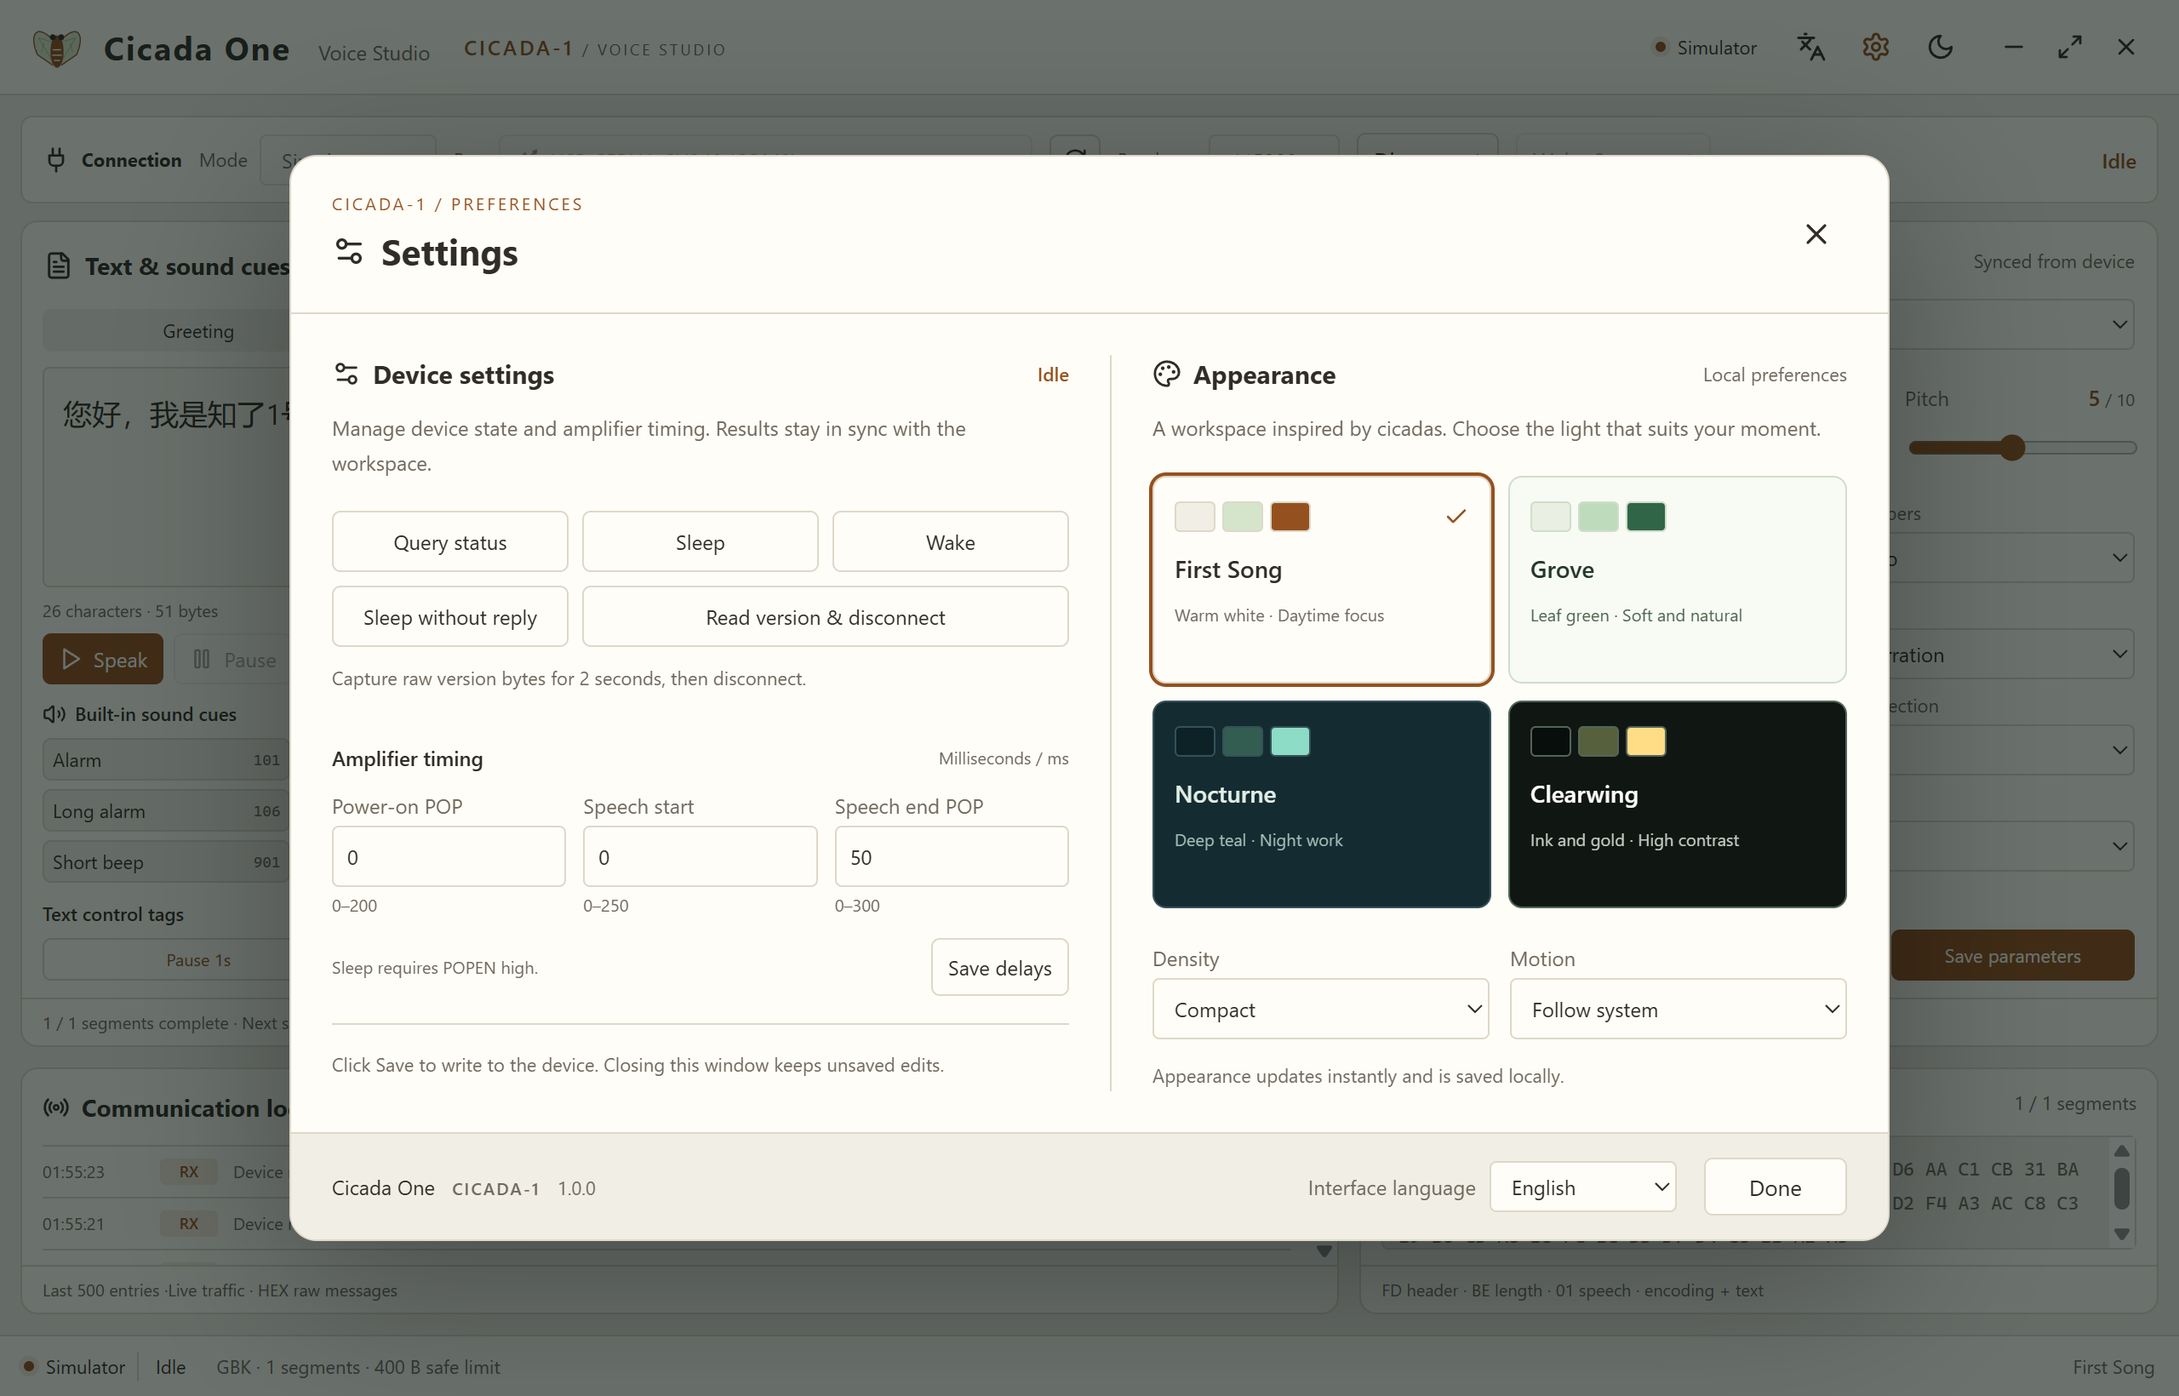
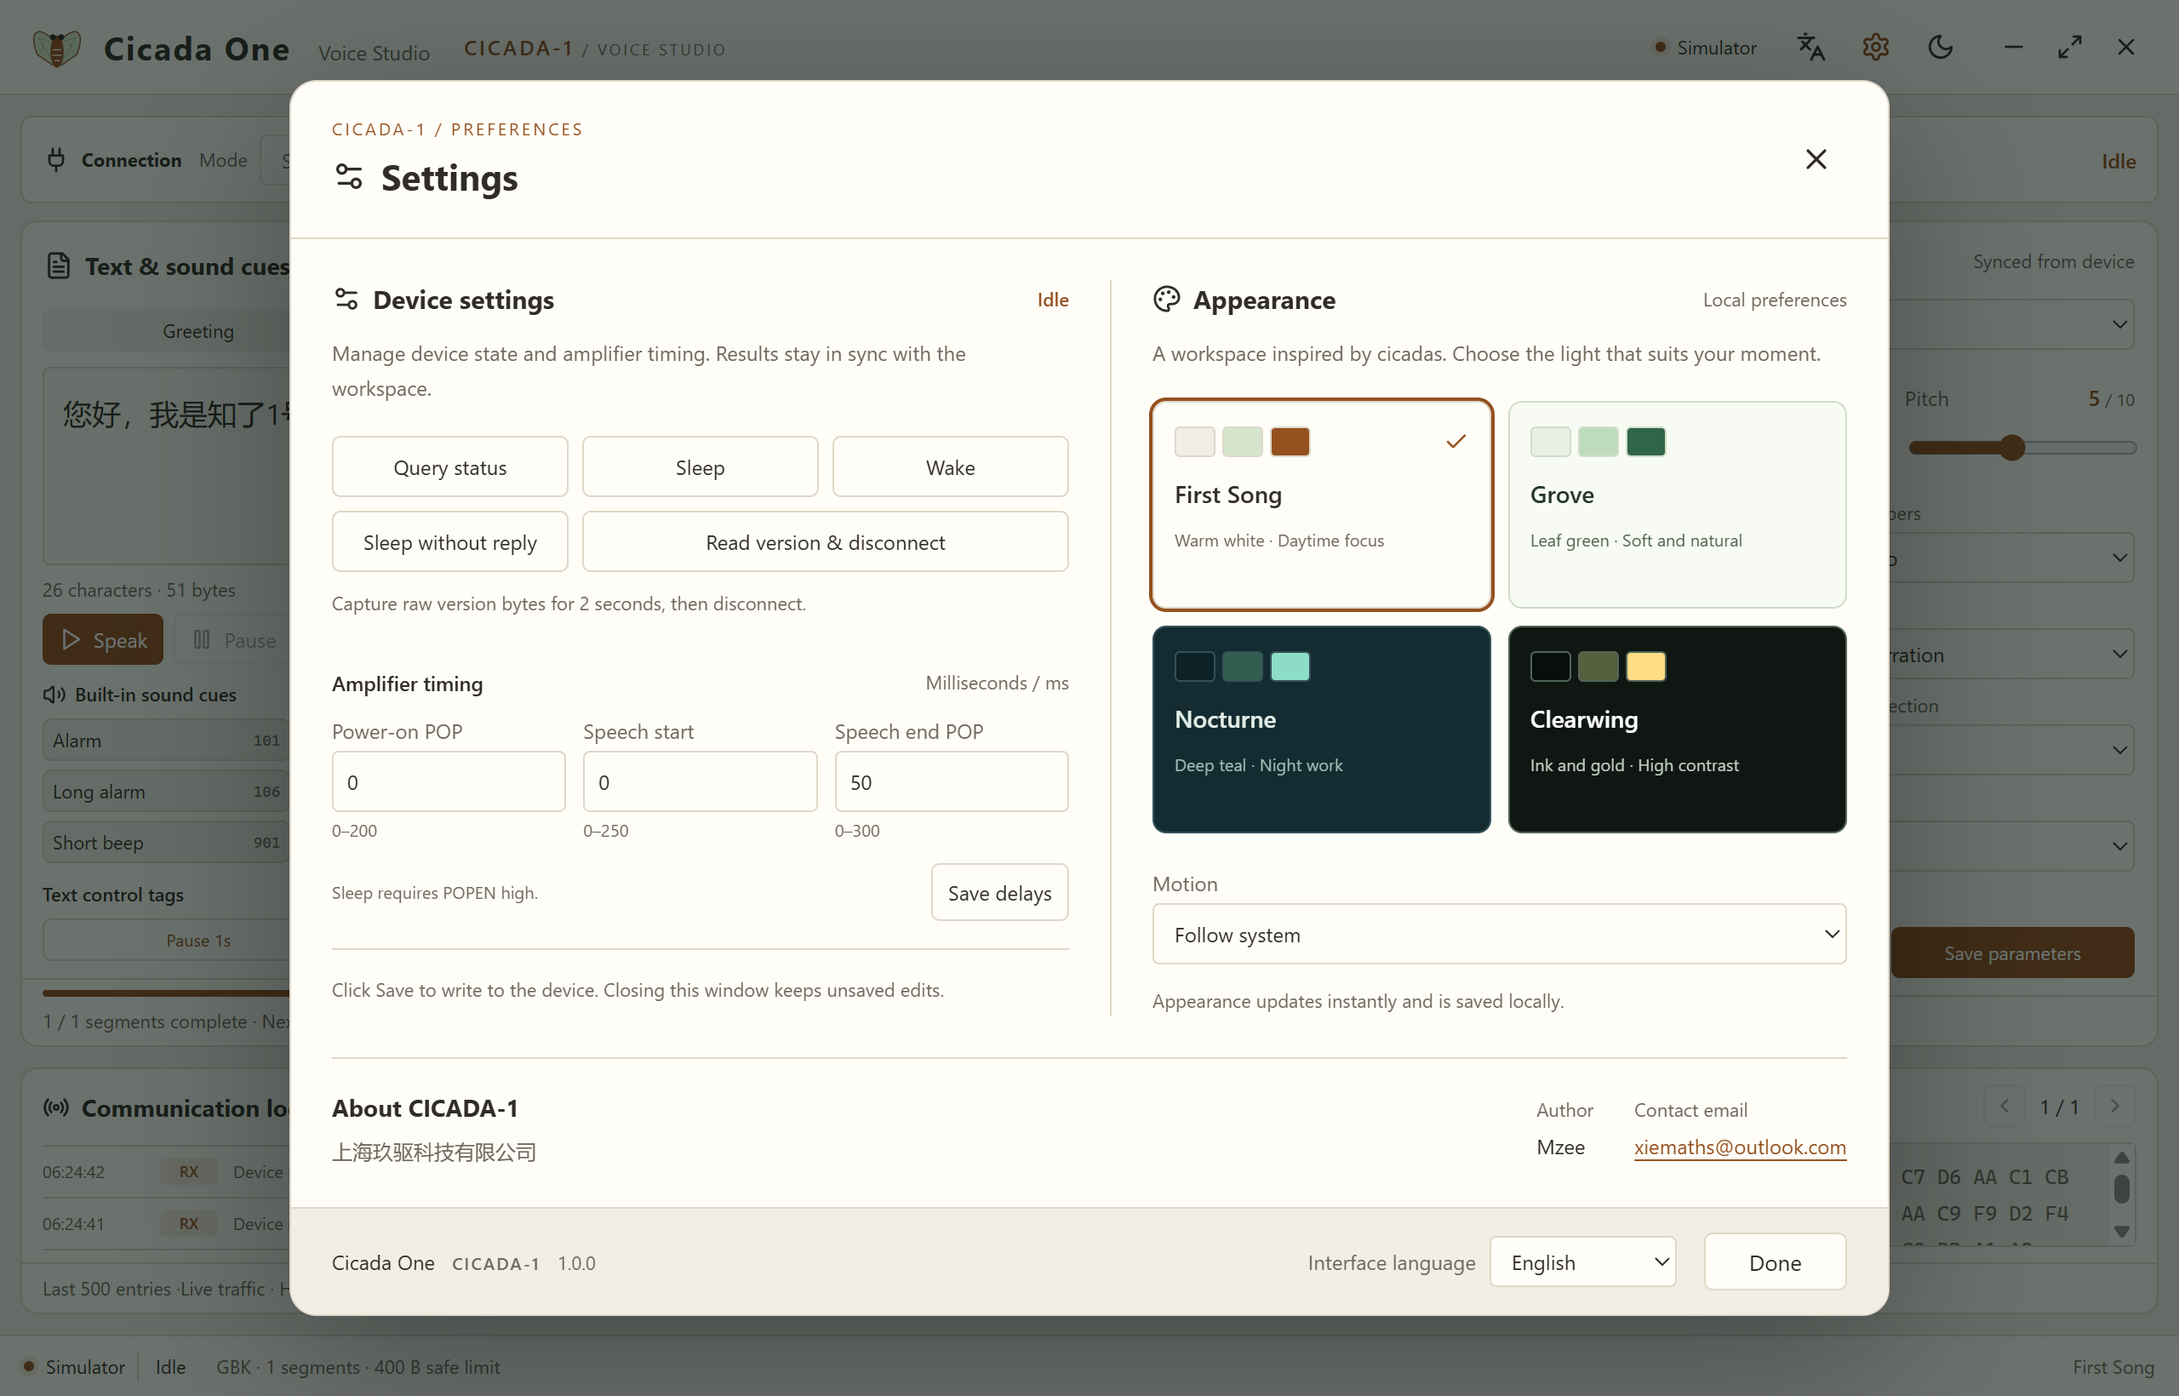
chore: add author metadata and refresh release documentation

diff --git a/docs/CODE_REVIEW.md b/docs/CODE_REVIEW.md
@@ -1,0 +1,73 @@
+# 代码与界面审查（2026-09-21）
+
+## 范围与结论
+
+审查了 React 首页、设置弹窗、串口选择器、国际化、协议编码与分段、设备队列与模拟器、Rust 串口 IPC 和 Windows 友好名称查询、Tauri 权限/CSP、构建配置、测试及发布/实机脚本。生成的字库表和第三方依赖未逐条人工审计。依据当前源码和本轮测试，不将历史实机报告当作本轮硬件验证。
+
+现有结构适合单设备桌面工作台：协议和会话分离、前后端都有帧容量限制、原生写入串行化、版本响应独立采集、主题使用语义变量、弹窗采用原生 dialog。主要改善方向是异步会话边界、长文本响应速度、小窗口可用性和信息字号。
+
+## 本轮已修复
+
+| 问题 | 修改 | 验证 |
+| --- | --- | --- |
+| 停止命令在发现已有请求之前清空队列，导致停止被拒绝但剩余分段丢失 | `src/lib/device.ts` 在停止副作用前检查连接与 pending | 新增会话回归：状态请求占用响应通道时停止被拒绝，原播放在完成回传后仍续段 |
+| 每次日志、状态或参数更新都重新编码整份文本 | `src/Dashboard.tsx` 按文本和编码 memoize 分段结果 | TypeScript 构建、协议测试和播放流程测试；尚未给出实测性能提升百分比 |
+| 文本校验错误未与输入关联，日志冻结按钮没有选中状态 | 添加 aria-invalid、aria-describedby、错误 alert、aria-pressed | 浏览器测试检查错误描述与冻结状态 |
+| 1280×640 下控制标记及最后一排参数被卡片 overflow 裁切 | `src/dashboard.css` 在桌面高度低于 720px 时采用自然页面滚动，并保证上排卡片高度 | 先复现失败，再覆盖中英文 × 两种密度 |
+
+## 仍建议处理的代码问题
+
+以下是审查发现及后续建议，不表示本轮已全部修复。
+
+1. **P2：分段间隙仍缺少统一的操作调度。** `Device.receive` 收到 4F 后先设置“空闲”，`nextSegment` 等待 40ms 才发下一段；这期间界面会重新开放部分操作。若状态查询占用 pending，下一段 request 会报“上一条命令尚未完成”，catch 清空后续队列。`Dashboard.run` 只保护用户触发操作，不能覆盖后台续段。建议将播放阶段和命令通道建模为明确状态，并集中调度续段、暂停、状态查询。依据静态控制流发现，本轮未加入这一时序的自动复现。
+2. **P2：UTF-8 导入会静默替换坏字节。** `Dashboard` 使用 `File.text()`，GBK 文件误选或损坏 UTF-8 会转换为替代字符后覆盖草稿。建议使用 `TextDecoder('utf-8', { fatal: true })` 解码 ArrayBuffer，失败时保留原草稿并解释应使用 UTF-8。
+3. **P2：实机测试恢复失败可能仍以成功退出。** `scripts/com9-hardware-test.ps1` 的恢复失败仅写检查记录或警告；`com9-capacity-test.ps1` 的 restored=false 也不会显式失败。自动化调用方只看退出码时可能误判。建议将恢复失败纳入最终退出状态，并记录原始测试失败与恢复失败两种原因。
+4. **P2：长文本编辑仍会同步阻塞主线程。** memoize 避免无关刷新重复编码，但文本每次改变仍同步遍历全部内容；导入允许 1 MB，草稿也每次编辑同步写 localStorage。建议先用接近上限的中英文文本测量输入延迟，再考虑后台编码与草稿防抖，发送前必须校验结果对应当前文本。
+5. **P3：空预览和筛选空状态表达不准确。** 无有效帧时仍显示“第 1 / 0 段”；日志已有数据但筛选无匹配时仍显示“连接设备后…”；建议分别显示“无可发送报文”和“无匹配记录”，后者提供清除筛选。
+6. **P3：前端维护边界偏集中。** Dashboard 同时负责存储、文件导入、日志导出、设备操作和四个区域渲染；CSS 保留 `.device-panel` / `.device-body` 等旧布局规则。建议按连接、编辑器、参数、日志区逐步拆分，并在删除旧样式前核对设置弹窗共享选择器。
+
+收到 41 后长期收不到 4F 时，目前会持续等待；这是避免未经确认自动续发的保守行为。后续可增加等待时长和“停止/重新连接”引导，不应直接套用 15 秒命令超时强制中止长语音。
+
+## 界面优化与美化建议
+
+已检查本轮浏览器截图中的浅色/深色首页、手机首页和深色设置，并通过流程测试覆盖四种主题、语言切换、弹窗键盘循环、375px 竖屏与横屏设置布局。
+
+| 优先级 | 区域 | 建议与理由 |
+| --- | --- | --- |
+| 高 | 手机首页 | 设置已使用 44px 控件，但首页提示音、标记、日志工具仍多为 25–35px；使用小屏专属 44px 点击区域，允许内容纵向增长 |
+| 高 | 字号 | 卡片脚注、HEX 和辅助说明多为 9–11px；桌面常用说明提升至 12px，日志/HEX 提供字号或展开模式；保持编辑区为视觉重心 |
+| 中 | 播放反馈 | 将纯文字“完成 x/y 段”加上进度条，明确区分播报、暂停、等待回传和完成；状态需同时有文字，不能只靠颜色 |
+| 中 | 语音参数 | 提升“未保存修改”的辨识度，保存后使用短暂成功提示；高级读法可折叠，优先呈现发音人、音量、语速、语调 |
+| 中 | 通信记录 | 默认首屏只展示少量行，增加展开/收起日志区；冻结按钮选中时增加主题色背景，筛选结果为空时提供清除入口 |
+| 中 | 发送预览 | 长文本允许上一段/下一段切换，并显示该段字节数；当前只显示第一段，不便排查后续文本 |
+| 低 | 视觉统一 | 保留暖白/自然绿/深青/金色四主题，统一卡片圆角和间距；避免为设备工具添加大面积渐变、装饰动画或在线字体依赖 |
+
+设计技能的搜索结果包含不适合本项目的应用商店落地页模式，未照搬；采用其可访问性、焦点、文本层级和减少动态效果检查项。没有声称已完成全页面 WCAG 对比度测量或真实屏幕阅读器验收。
+
+## 本轮验证
+
+- `npm test`：22 项通过（新增 1 项会话回归）。
+- `npm run build`：TypeScript 与 Vite 构建通过；JS 约 452 kB，gzip 约 157 kB。
+- `npm run test:e2e`：最终全量 9 项通过，包含新增的低窗口高度和可访问性检查；原有 7 项流程也通过。
+- `cargo test --manifest-path src-tauri/Cargo.toml`：4 项通过。
+- `cargo clippy --manifest-path src-tauri/Cargo.toml --all-targets -- -D warnings`：通过。
+- 浏览器启动最初因沙箱 spawn EPERM 失败，获准后使用 Edge 完成测试。
+- 本轮未连接真实模块、未执行会写模块参数的 COM9 脚本，也未重新打包或运行原生发布程序；串口时序和实听效果仍需硬件验收。
+
+本报告完成的是代码及界面审查，并附带上述明确范围的修复；待办项保留其验证状态和优先级。
+
+## 后续优化实施（2026-09-21）
+
+按用户后续指示完成以下修改；本节更新前文待办的实施状态。
+
+- **续段调度**：命令请求串行执行，续段等待占用中的请求完成，分段间隙保持播放状态。停止、断开和暂停会使旧的续段任务失效；只有合成命令的 41 才标记当前分段已接收。补测了查询与续段竞争、分段间暂停/继续、断开重连，以及播放完成早于暂停确认的时序。
+- **文本处理**：严格 UTF-8 解码，坏字节或超限文件导入失败时保留原草稿；编码移至 Worker，快速输入合并请求，只采用匹配当前文本和编码的结果。准备中禁用发送并显示状态。草稿采用300ms防抖，页面关闭或离开时保存最新值。
+- **结构与加载**：拆出轻量 `protocolCore.ts`、`FramePreview`、文件导入函数和编码 hook。主页面 JS 由约452 kB降至约303 kB，编码 Worker约156 kB；这是解析与执行负担的分离，不意味着总下载体积按同样比例减少。
+- **冷启动开发环境**：显式预构建Worker使用的编码依赖，避免清空Vite缓存后首次加载触发自动刷新并重置设备会话；冷缓存全量13项浏览器测试通过。
+- **实机脚本**：原测试异常与恢复异常分别记录，恢复失败会导致失败退出；只做语法验证，未连接模块执行这些写参数脚本。
+- **交互与视觉**：加入分段完成进度、逐段报文预览及字节数、日志展开、筛选空状态恢复；未保存参数和日志冻结状态加强显示，成功提示5秒后消失。手机首页控件至少44px高，日志筛选与工具分行，控制标记与提示音增加间距。
+- **作者信息**：设置“关于”、README、npm/Rust包元数据加入 Mzee、xiemaths@outlook.com、上海玖驱科技有限公司；Git提交身份未作修改。
+
+验证：28项单元测试通过；13项浏览器测试通过，随后针对手机日志布局调整再次复验相关11项，全通过。新增截图见 `screenshots/optimized-about.png`、`optimized-mobile.png`、`optimized-logs.png`。最终Tauri原生发布构建通过，WebView2冒烟14项检查通过，包含后台编码播放、作者信息与窗口交互；详见 `VERIFICATION.md` 和 `screenshots/native-report.json`。
+
+后续仍可按需求实施高级读法折叠、旧CSS清理和等待回传时长提示；本轮保留全部参数直接可见的桌面工作流。真实模块音频、电气及时序仍需实机验收。

diff --git a/docs/UI_DESIGN.md b/docs/UI_DESIGN.md
@@ -6,10 +6,18 @@
 
 串口通过原生枚举返回name、description、manufacturer；Windows额外读取Ports设备类的友好名称，覆盖USB和非USB串口。缺少系统描述时显示端口类别。自定义选择器沿用主题变量，支持搜索、方向键/Enter/Esc、手动输入，打开时定位当前选中设备，最终只将原始name传给连接接口。名称自带(COMx)时不重复附加。
 
-首页采用两栏：左侧扩大文本编辑区，保留全部13种提示音和控制标记；右侧集中声音参数，音量/语速/语调并排展示。底部保留通信记录与发送预览，最下方状态栏显示连接、分段信息与设置入口。
+首页采用两栏：左侧扩大文本编辑区，保留全部13种提示音和控制标记；右侧集中声音参数，音量/语速/语调并排展示。底部保留通信记录与发送预览，最下方状态栏显示连接、分段信息与主题。设置入口位于顶部。
 
 设备和外观从首页移入原生HTML dialog构成的模态子窗口（不是独立操作系统窗口），与首页共用串口会话及编辑状态。Tab/Shift+Tab在窗口内循环，Esc/关闭/完成返回首页，焦点恢复到入口。弹窗关闭不丢弃未保存的延时值，也不会取消播放；设备写入仍需明确点击保存。设备反馈在弹窗内显示，避免被遮罩遮挡。
 
 主题沿用amber/forest/night/contrast存储键，分别对应初鸣/First Song、林鸣/Grove、夜鸣/Nocturne、明翼/Clearwing，旧偏好保持兼容。色板使用语义变量，并在主题卡上同时显示色样、文字与选中标记。
 
 桌面优先考虑鼠标和键盘密度；小屏幕设置内容单列滚动。底部状态栏预留占位，关闭按钮和完成按钮保持可达。动效仅用于弹窗入场，并尊重系统和本机减少动态效果设置。
+
+布局统一固定，不提供紧凑/舒适切换，也不读取或保存旧布局密度偏好。
+
+播放区增加按已完成分段计算的进度条；数字进度仍保留，暂停和停止通过文本及控制按钮体现。通信记录可展开以阅读更多记录和更大的 HEX 字号，冻结按钮使用选中颜色；筛选无匹配时可直接清除筛选。发送预览支持上一段/下一段并显示文本字节数，无有效输入时显示明确空状态。
+
+手机首页按钮与选择器采用至少44px高度，提示音与控制标记增加间距；日志筛选与工具分两行排列，避免方向选择器被挤成一个箭头。低于720px的桌面窗口采用自然页面滚动，避免控件被卡片裁切。
+
+设置新增“关于”区域，显示作者 **Mzee**、联系邮箱 **xiemaths@outlook.com** 与公司 **上海玖驱科技有限公司**。公司使用用户提供的中文名称，中英文模式均保留；邮箱可通过 mailto 链接唤起系统邮件处理程序，应用本身不发送邮件。

diff --git a/docs/VERIFICATION.md b/docs/VERIFICATION.md
@@ -1,5 +1,25 @@
 # 软件验证记录
 
+## 2026-09-21 优化版
+
+| 项目 | 结果 | 覆盖范围 |
+| --- | --- | --- |
+| Vitest | 28项通过 | 协议、会话调度、查询/续段竞争、暂停确认时序、断开取消、严格UTF-8导入、国际化 |
+| Playwright | 14项通过 | 四主题下载弹窗、取消与焦点返回、空结果与手机宽度，以及原有播放、预览、草稿、作者与双语流程 |
+| TypeScript / Vite / Tauri release | 通过 | 编码Worker独立输出，最终Windows原生程序构建成功 |
+| 原生WebView2冒烟 | 14项检查通过 | 离线加载与后台编码、模拟连接和播放、日志导出、作者/公司/邮箱、双语设置、窗口操作、版本采集IPC、无效端口错误 |
+| 实机脚本语法 | 通过 | 两份修改的PowerShell脚本解析通过；未执行模块写入及参数恢复测试 |
+
+原生报告：`screenshots/native-report.json`。本轮枚举到COM3–COM6四个蓝牙串口；未向真实模块发送命令，`hardwareTested=false`。此前Rust单元测试4项及Clippy通过；本次Rust串口源代码未修改，仅更新作者元数据并重建发布程序。
+
+主页面JS约305 kB（gzip约95 kB），编码Worker约156 kB；原主页面约452 kB（gzip约157 kB）。编码代码与字库转移至Worker，降低主线程负担，总资源体积不按此比例减少。
+
+作者：Mzee；邮箱：xiemaths@outlook.com；公司：上海玖驱科技有限公司。
+
+重新打包前清理了前端产物、Rust target、Vite缓存、测试临时文件和TypeScript构建缓存，28项单元测试通过。从空Vite缓存运行时发现Worker专用编码依赖晚发现引起页面自动刷新；已将这两个依赖加入预构建列表，再次清空缓存后13项浏览器测试全部通过。布局密度选项已移除，当前使用固定布局。
+
+## 历史验证（2026-09-10 至 2026-09-11）
+
 验证环境：Windows x64、Node.js 24.13.0、Rust 1.96.0、Microsoft Edge / WebView2。日期：2026-09-10 至 2026-09-11。
 
 | 项目 | 结果 | 覆盖范围 |
